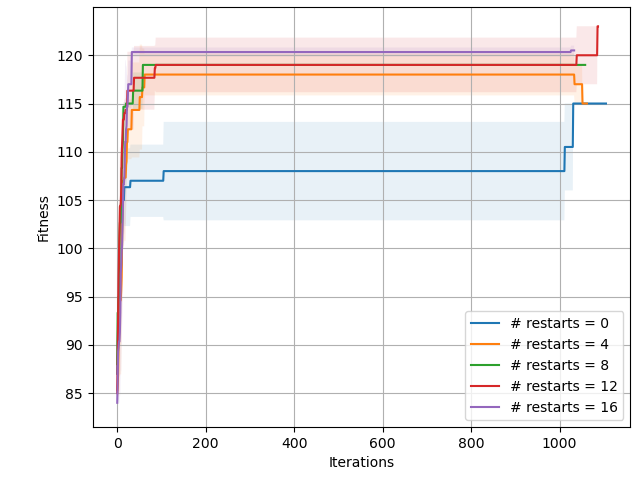
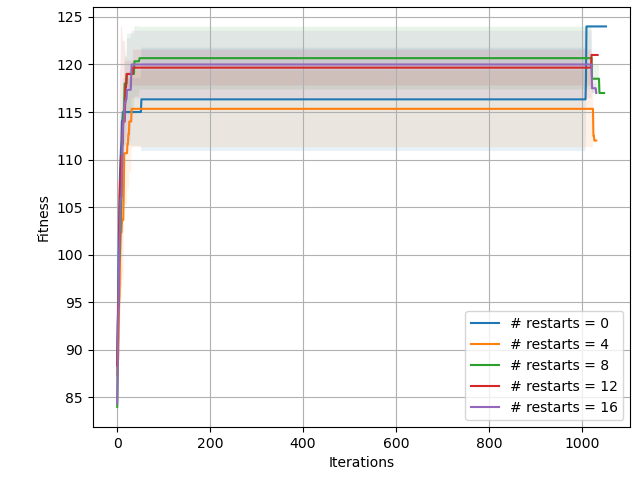
Adjust Graph sizes.

diff --git a/Assignment 2/util/graphing.py b/Assignment 2/util/graphing.py
@@ -22,8 +22,10 @@ def _draw_variance_curve(ax, df, x=None, label=''):
     return
 
 
-def plot_algo_dict_generic_with_variance(data_dict, x=None):
+def plot_algo_dict_generic_with_variance(data_dict, x=None, height=3, width=5):
     fig, ax = plt.subplots()
+    fig.set_figheight(height)
+    fig.set_figwidth(width)
 
     rhc = pd.DataFrame(data_dict['rhc'])
     sa = pd.DataFrame(data_dict['sa'])
@@ -59,8 +61,10 @@ def plot_algo_dict_generic(dict, x=None):
     return
 
 
-def plot_hyperparam_dict_generic(hyper_dict, label):
+def plot_hyperparam_dict_generic(hyper_dict, label, height=3, width=5):
     fig, ax = plt.subplots()
+    fig.set_figheight(height)
+    fig.set_figwidth(width)
 
     for key, item in hyper_dict.items():
         df = pd.DataFrame(item)
@@ -73,8 +77,11 @@ def plot_hyperparam_dict_generic(hyper_dict, label):
     return
 
 
-def plot_loss_curves(loss_dict, dataset):
+def plot_loss_curves(loss_dict, dataset, height=3, width=5):
     fig, ax = plt.subplots()
+    fig.set_figheight(height)
+    fig.set_figwidth(width)
+
     rhc = pd.DataFrame(loss_dict['rhc'])
     sa = pd.DataFrame(loss_dict['sa'])
     ga = pd.DataFrame(loss_dict['ga'])
@@ -103,6 +110,29 @@ def plot_lc_evaluations(evaluations_dict, dataset):
     return
 
 
+def plot_lc_fitness_vs_evals(fitness_dict, evals_dict, dataset):
+    plt.figure()
+
+    rhc = fitness_dict['rhc'][0]
+    rhc_x = evals_dict['rhc'][0]
+    sa = fitness_dict['sa'][0]
+    sa_x = evals_dict['sa'][0]
+    ga = fitness_dict['ga'][0]
+    ga_x = evals_dict['ga'][0]
+    mimic = fitness_dict['mimic'][0]
+    mimic_x = evals_dict['mimic'][0]
+
+    plt.plot(rhc_x, rhc, label='Randomized Hill Climb')
+    plt.plot(sa_x, sa, label='Simulated Annealing')
+    plt.plot(ga_x, ga, label='Genetic Algorithm')
+    plt.plot(mimic_x, mimic, label='MIMIC')
+
+    plt.xlabel('# of Function Evaluations')
+    plt.ylabel('Fitness')
+    plt.legend()
+    plot_helper('', dataset + '_fitness_vs_evaluations', dataset)
+
+
 def plot_lc_iterations(iterations_dict, dataset):
     plt.figure()
     plot_algo_dict_generic_with_variance(iterations_dict)
@@ -114,10 +144,13 @@ def plot_lc_iterations(iterations_dict, dataset):
     return
 
 
-def plot_generic_multi_algo_dict(data_dict, x, dataset, xlabel, ylabel, filename):
+def plot_generic_multi_algo_dict(data_dict, x, dataset, xlabel, ylabel, filename, height=3, width=5):
     # catch when we are trying to plot variance
     if type(data_dict['rhc']) == list:
         fig, ax = plot_algo_dict_generic_with_variance(data_dict, x)
+        fig.set_figheight(height)
+        fig.set_figwidth(width)
+
         ax.set_xlabel(xlabel)
         ax.set_ylabel(ylabel)
         ax.legend(loc="best")

diff --git a/Assignment 2/nn_tests.py b/Assignment 2/nn_tests.py
@@ -121,7 +121,8 @@ class NNTester(object):
 
         print("Starting Tests....")
 
-        self.exp_loss_curve(ds_red_wine)
+        #self.exp_loss_curve(ds_red_wine)
+        self.exp_learning_curve_all_algos(ds_red_wine)
         self.exp_scalability(ds_red_wine)
 
         self.exp_loss_curve(ds_diabetic)
@@ -158,7 +159,7 @@ class NNTester(object):
         )
 
         for e in res['estimator']:
-            loss_curves.append(e.fitness_curve)
+            loss_curves.append(e.fitness_curve[:, 0])
 
         return loss_curves
 
@@ -176,6 +177,34 @@ class NNTester(object):
             loss_curves_dict[algo.ShortName] = loss_curves
 
         plot_loss_curves(loss_curves_dict, ds.name)
+        return
+
+    def exp_learning_curve_all_algos(self, ds):
+        for algo in self.BackpropAlgos:
+            self.exp_learning_curve(ds, algo)
+
+    def exp_learning_curve(self, ds, algo):
+        train_sizes = np.linspace(0.1, 1.0, 4)
+
+        sss = StratifiedShuffleSplit(n_splits=3, test_size=0.3, random_state=0)
+
+        temp_learner = algo.construct_learner()
+
+        train_sizes, train_scores, test_scores, fit_times, _ = learning_curve(
+            temp_learner,
+            ds.train_x,
+            ds.train_y,
+            scoring="f1_weighted",
+            cv=sss,
+            n_jobs=self.N_Jobs,
+            train_sizes=train_sizes,
+            return_times=True,
+        )
+
+        fit_times_ms = fit_times * 1000
+
+        plot_learning_curve(train_scores, test_scores, train_sizes, algo.ShortName, folder='nn_' + ds.name)
+        plot_scalability(fit_times_ms, train_sizes, algo.ShortName, folder='nn_' + ds.name)
         return
 
 

diff --git a/Assignment 2/GenericTester.py b/Assignment 2/GenericTester.py
@@ -6,7 +6,7 @@ from joblib import Parallel, delayed
 from tqdm import tqdm
 
 from util.graphing import plot_lc_iterations, plot_fitness_vs_complexity, plot_time_vs_complexity, plot_lc_evaluations, \
-    plot_hyperparam_dict_generic, plot_helper
+    plot_hyperparam_dict_generic, plot_helper, plot_lc_fitness_vs_evals
 from tests.hyperparameter_tester import HyperTester
 
 
@@ -74,18 +74,13 @@ class GenericTester(object):
             print("all complete")
 
             # peel off the evals first
-            for run in processed_list_all:
-                evals_rhc = run[:, 8]
-                diff = np.diff(evals_rhc)
-                avg = diff.mean()
-                std = diff.std()
+            # for run in processed_list_all:
+            #    evals_rhc = run[:, 8]
+            #    diff = np.diff(evals_rhc)
+            #    avg = diff.mean()
+            #    std = diff.std()
 
             as_array = np.array(processed_list_all)
-
-            evals = as_array[:, 8]
-            diff = np.diff(evals)
-            avg = diff.mean()
-            std = diff.std()
 
             fitness_dict["rhc"].append(as_array[:, 4])
             fitness_dict["sa"].append(as_array[:, 5])
@@ -164,6 +159,7 @@ class GenericTester(object):
 
         plot_lc_iterations(fitness_dict, self.Name)
         plot_lc_evaluations(evaluations_dict, self.Name)
+        plot_lc_fitness_vs_evals(fitness_dict, evaluations_dict, self.Name)
 
     def _run_single_iterations(self, seed_offset):
         problem, init_state = self.problem_constructor(seed=self.Seed + seed_offset)
